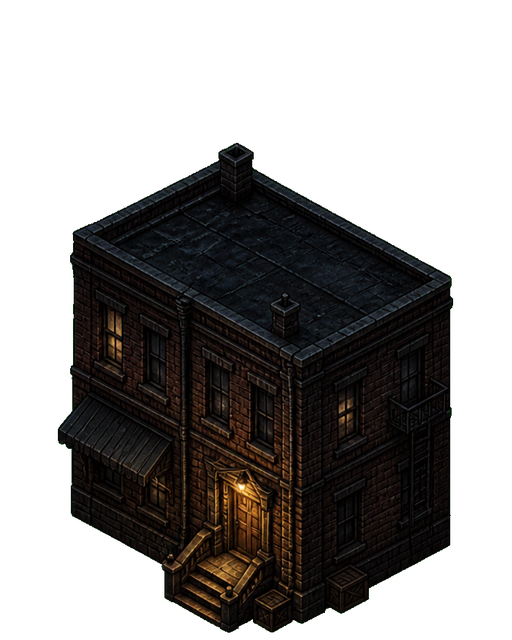
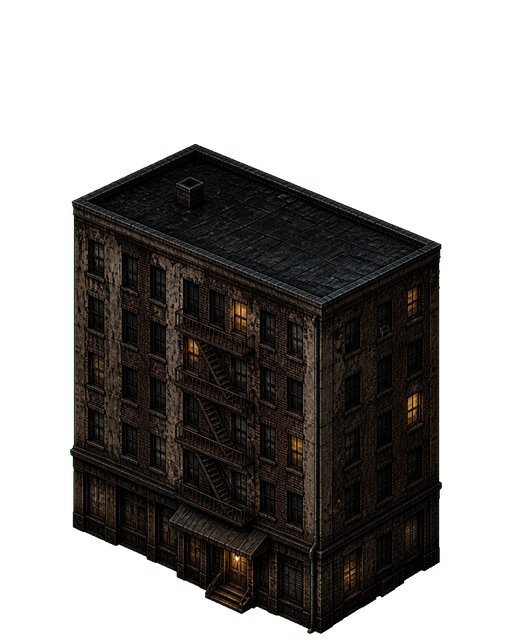
Replace city Voss stoop with intro apartment landmark.
Align the Sable Row return building with the opening exterior tenement while keeping city modular prop style and door-anchored scale.

Changed region(s): [[0.0938, 0.2188, 0.9062, 1.0], [0.7812, 0.8125, 0.8125, 0.8438]]

diff --git a/RainShadow Shared/Gameplay/Navigation/CityDistrictLayout.swift b/RainShadow Shared/Gameplay/Navigation/CityDistrictLayout.swift
@@ -30,7 +30,7 @@ enum CityDistrictLayout {
 
     /// Opaque bbox heights of shipped V2 city prop textures (texture pixels).
     enum SourceContentHeight {
-        static let buildingVossStoop: CGFloat = 491
+        static let buildingVossStoop: CGFloat = 490
         static let buildingTenement: CGFloat = 471
         static let buildingStorefront: CGFloat = 471
         static let buildingRowhouse: CGFloat = 440
@@ -54,7 +54,7 @@ enum CityDistrictLayout {
     /// Measured painted door-leaf heights (threshold → lintel underside, texture px).
     /// Used for door-anchored runtime scale; not the full facade opaque height.
     enum SourceDoorLeafHeight {
-        static let buildingVossStoop: CGFloat = 83
+        static let buildingVossStoop: CGFloat = 52
         static let buildingTenement: CGFloat = 62
         static let buildingStorefront: CGFloat = 64
         static let buildingRowhouse: CGFloat = 65

diff --git a/ArtSource/Processing/process_city_districts_v02 2.py b/ArtSource/Processing/process_city_districts_v02 2.py
@@ -77,7 +77,7 @@ PROP_CELLS = [
 ]
 
 SOLOS = [
-    ("city_voss_stoop_solo_v02.png", "city_building_voss_stoop", "SableRow"),
+    ("city_voss_stoop_solo_v03.png", "city_building_voss_stoop", "SableRow"),
     ("city_shipping_office_solo_v02.png", "city_building_shipping_office", "WharfLadder"),
     ("city_iron_stairs_solo_v02.png", "city_building_iron_stairs", "Riverside"),
 ]

diff --git a/ArtSource/Processing/process_city_districts_v02.py b/ArtSource/Processing/process_city_districts_v02.py
@@ -77,7 +77,7 @@ PROP_CELLS = [
 ]
 
 SOLOS = [
-    ("city_voss_stoop_solo_v02.png", "city_building_voss_stoop", "SableRow"),
+    ("city_voss_stoop_solo_v03.png", "city_building_voss_stoop", "SableRow"),
     ("city_shipping_office_solo_v02.png", "city_building_shipping_office", "WharfLadder"),
     ("city_iron_stairs_solo_v02.png", "city_building_iron_stairs", "Riverside"),
 ]

diff --git a/ArtSource/Prompts/GenerationLog.md b/ArtSource/Prompts/GenerationLog.md
@@ -135,6 +135,7 @@ All prompts use the supplied Baldur's Gate-era screenshots as style-analysis ref
 | Sable Row city block V1 | `exec-af0485c6-1d02-4ae0-8463-717e9b85170c.png` | `Generated/CityDistrict/city_district_block_v01.png` | `Areas/CityDistrict/city_district_block_v01.png`, 1774×887 | Original rain-soaked 1930s noir city district, rendered in a fixed 2:1 dimetric camera with small human-scale props and multiple connected streets. Tactical CRPG/Baldur's Gate references informed only density and local-reveal behavior. The runtime expands this source plate to 3548×1774 world points (well over four office footprints) and layers a deterministic persistent fog mask; neither fog nor UI is baked into the asset. Exact prompt: `Prompts/city_district_block_v01.md`. |
 | Sable Row modular city V1 | Underlay `exec-2216f8c7-6126-45c0-a012-4cb7885c53ac.png`; buildings `exec-b8ab5c22-4af9-4619-8a11-fb9f024c831c.png`; props `exec-e3921c1e-3356-4aab-b925-90f40da304b3.png` | `Generated/CityDistrict/ModularV1/` contains all masters, exact crops, and transparent derivatives | `Areas/CityDistrict/city_district_ground_v01.png` plus 15 `Props/CityDistrict/city_*.png` textures | The original city plate remains intact for the map. Play uses its matching empty wet-street underlay and independently depth-sorted building, lamp, statue, bench, car, kiosk, crate/mailbox, and gate sprites. The sizing contract keeps cars around Elias's height and street blocks local to the 260-point fog reveal. Exact prompts: `Prompts/city_district_modular_v01.md`. |
 | Act I city districts V2 | Built-in Image Generator; office suite plate as camera/material lock | `Generated/CityDistrict/V2/{SableRow,WharfLadder,Riverside,HarborpointPD,LilaStreet,CivicRecords,Shared}/` | `Areas/CityDistrict/V2/*_{block,ground}_v02.png` (2048×1152), `Props/CityDistrict/V2/city_building_*.png` + `city_prop_*.png`, `UI/Map/map_city_*_v02.png` (1847×1040) | Six Act I travel districts matching the office 2:1 dimetric lock: Sable Row hub (Voss apartment stoop return), Wharf Ladder shipping, riverside iron stairs, Harborpoint PD, Lila's street, Civic Records. Modular underlays + landmark sheets + shared street props. Process: `Processing/process_city_districts_v02.py`. Perspective contract: `Prompts/city_perspective_lock_v02.md`. |
+| Voss apartment landmark V3 | Built-in Image Generator `city_voss_stoop_solo_v03.png`; refs intro `ext_apartment_base_v01`, city tenement, prior stoop, office plate | `Generated/CityDistrict/V2/SableRow/city_voss_stoop_solo_v03.png` | `Props/CityDistrict/V2/city_building_voss_stoop.png`, 512×640; door leaf 52px | Replaces short brownstone stoop with the rundown multi-story fire-escape apartment from the opening exterior, as a modular Sable Row chroma prop. Prompt: `Prompts/city_sable_row_voss_stoop_v03.md`. |
 
 ## Derivative processing
 

diff --git a/ArtSource/Prompts/city_sable_row_voss_stoop_v03.md b/ArtSource/Prompts/city_sable_row_voss_stoop_v03.md
@@ -1,0 +1,11 @@
+# Voss apartment landmark V3 — intro continuity
+
+- Mode: built-in Image Generator
+- Refs: intro `ext_apartment_base_v01.png`, `city_building_tenement.png`, prior stoop solo, office suite plate, `city_perspective_lock_v02.md`
+- Intent: Replace the short brownstone stoop with the same rundown multi-story apartment from the opening exterior, as a modular city prop.
+
+```text
+Use case: stylized-concept
+Asset type: modular isometric architecture solo sprite
+Primary request: Isolated rain-dark rundown mid-century multi-story brick apartment/office corner walk-up that clearly matches the RainShadow opening exterior apartment — about four stories, flat parapet roof, soot-stained brick with crumbling plaster patches, dense grid of small vertically rectangular windows (mostly dark, sparse warm amber lit), zigzagging metal fire escape on the main facade, ground-floor storefront openings with short dark awnings, and one clearly readable warm amber doorway with short stoop stairs as Harlan Voss's apartment return. Fixed 2:1 dimetric matching RainShadow office suite plate and neighboring Sable Row building props. Full building silhouette on vivid green #00FF00 chroma with generous clearance. Compact human-scale CRPG prop density like city_building_tenement — not a monumental tower. No ground plane puddle, street, people, cars, sign text, UI, watermark.
+```
